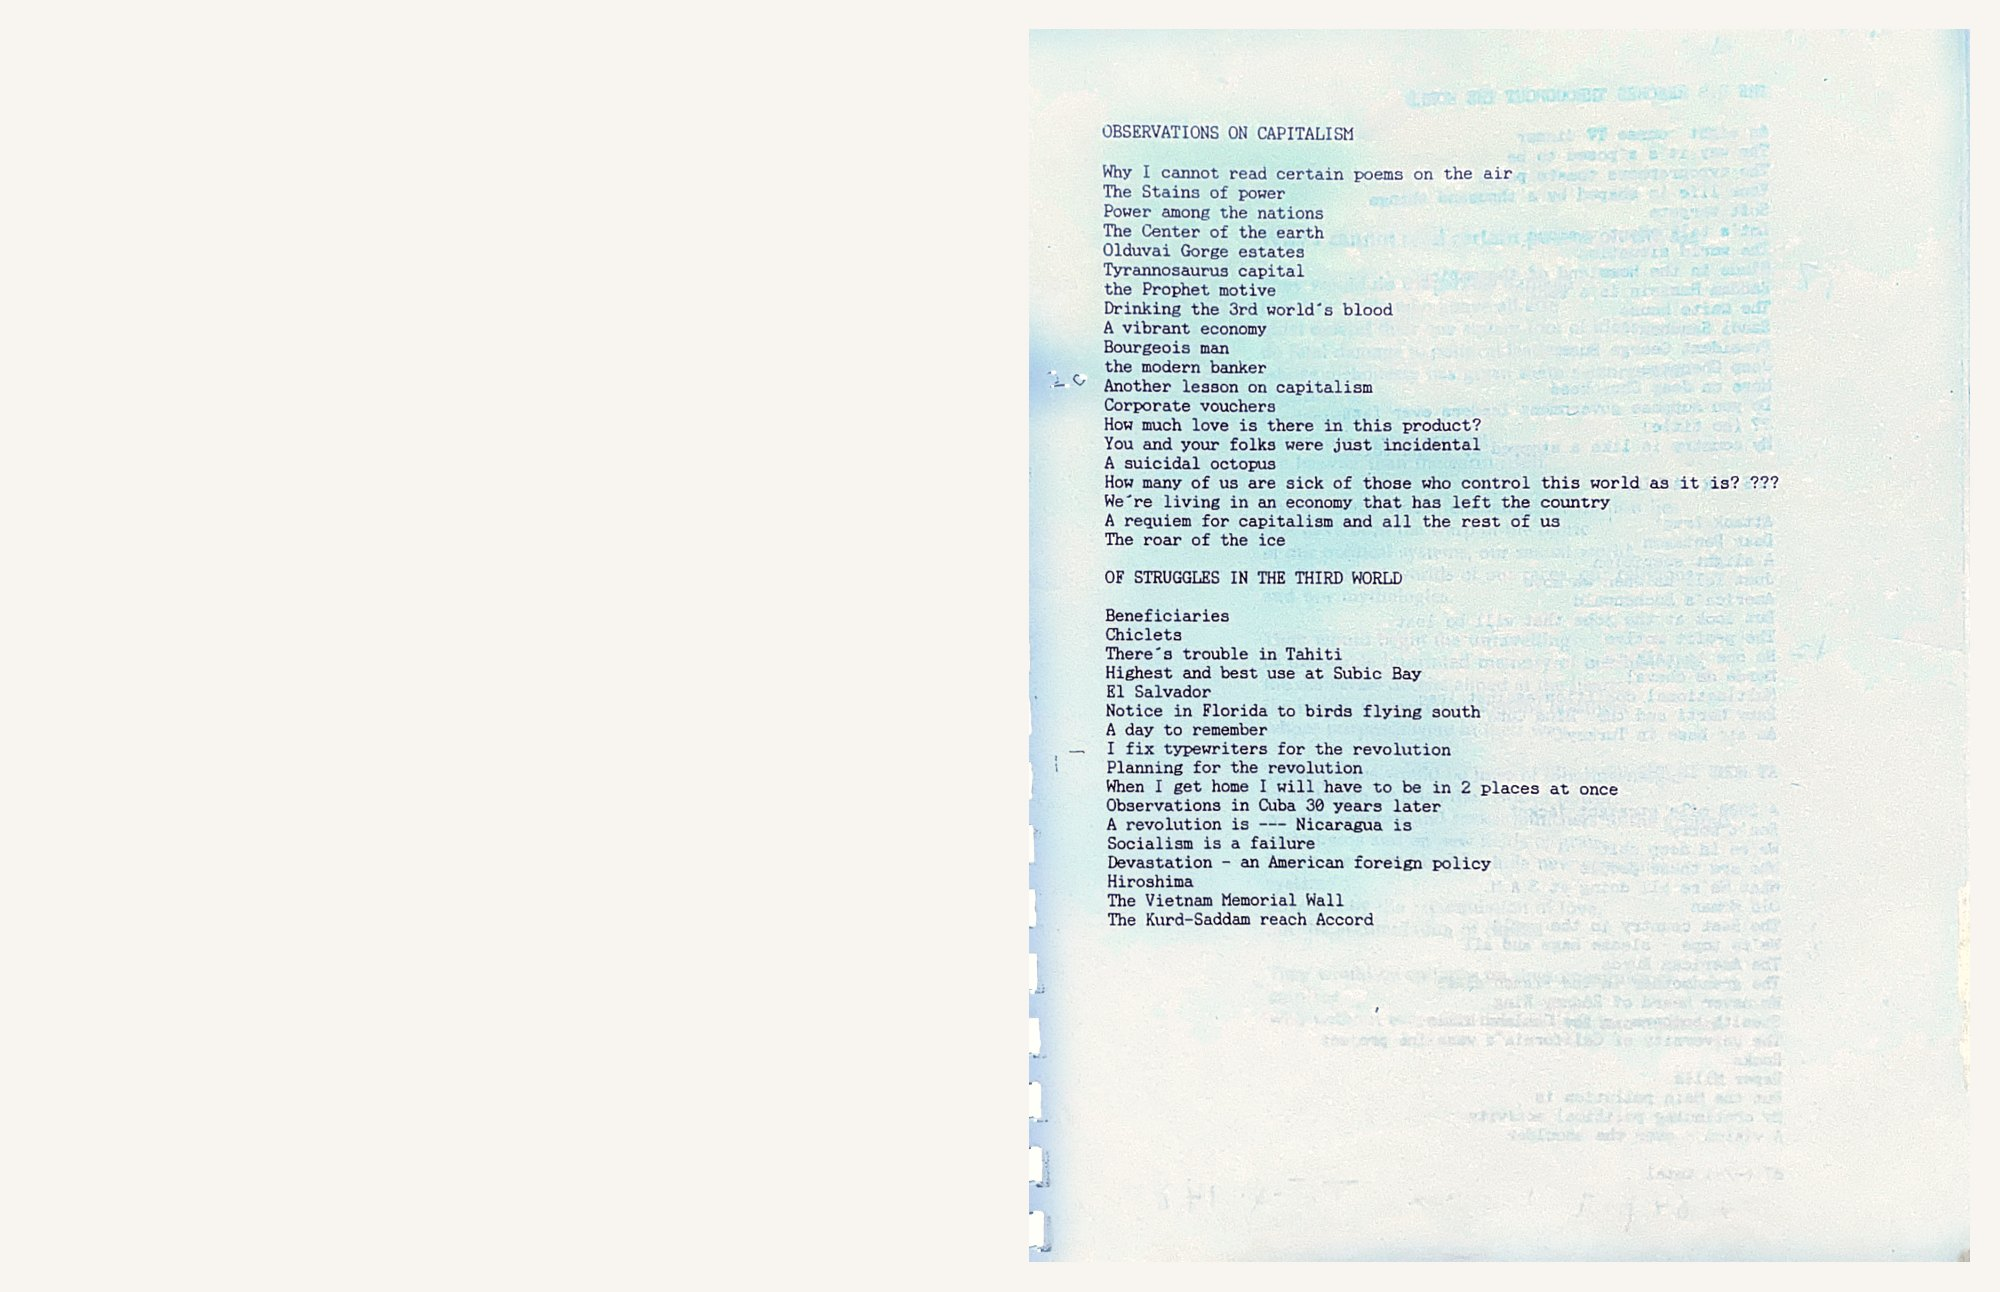
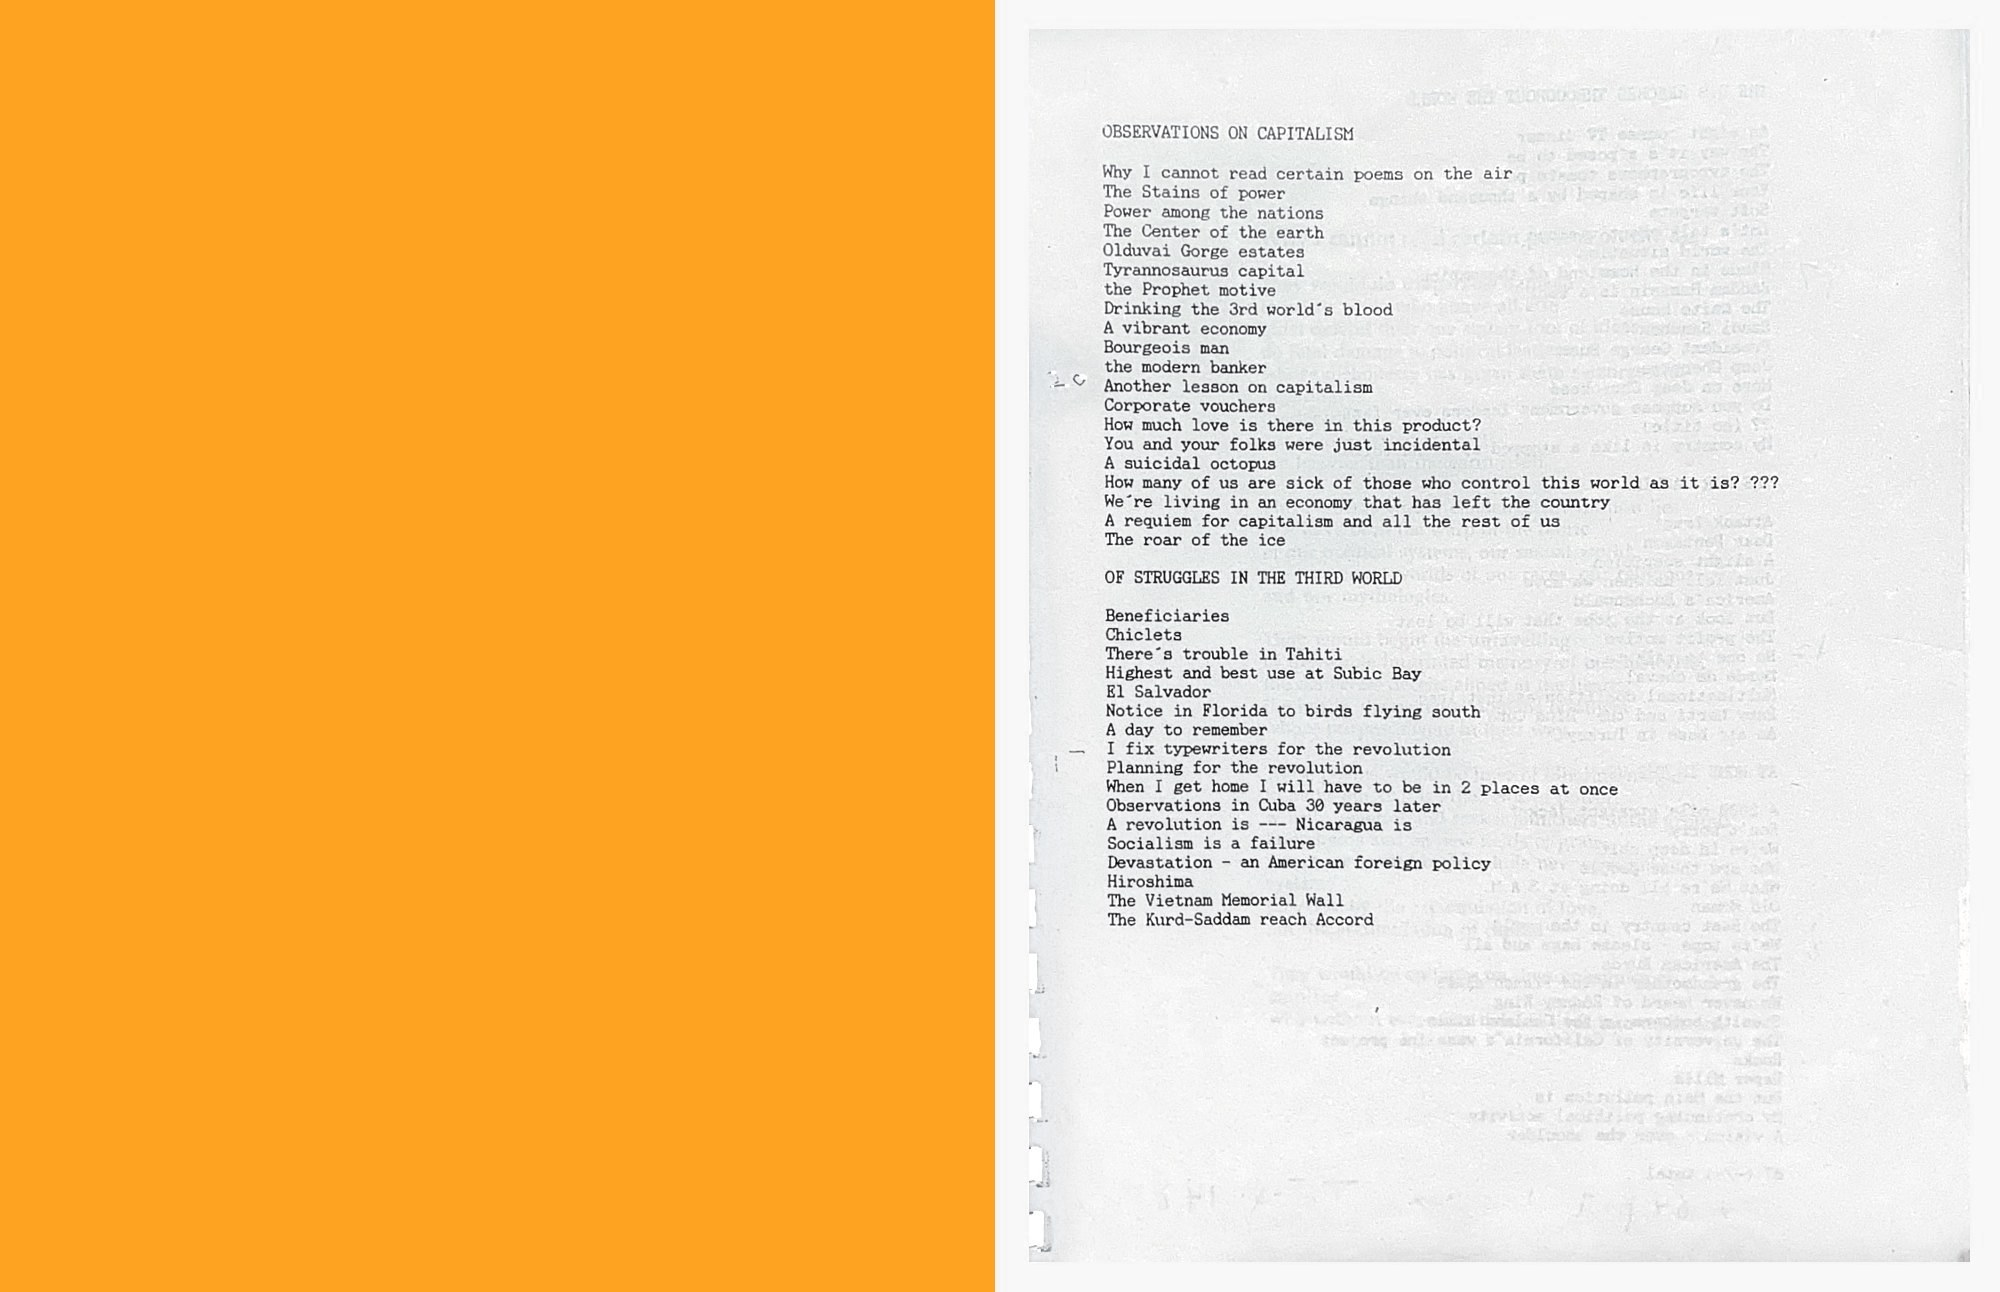
Suicidal Octopus: orange endpapers + fix seam colour; jump tidy
Each half now begins and ends with a blank orange endpaper (repaint the
padded blanks on s000 and s111 to the book's orange), and the cyan cast
on the batch-1 contents and final pages at the seam is neutralised so
the rest read white. Add two titled poems that were missing from the
jump menu (Patriotism, Modern success). Jump audit: all links verified
to land on their poems.

Claude-Session: https://claude.ai/code/session_01K2qkhUtNd8k2fdgNzPF8qG

diff --git a/chapbooks/the-suicidal-octopus/read.html b/chapbooks/the-suicidal-octopus/read.html
@@ -124,6 +124,7 @@ BookReader({
     ["Butterflies", 120],
     ["My daughter Lori", 121],
     ["The most famous bank branch in the United States", 122],
+    ["Patriotism", 124],
     ["The liquor companies", 125],
     ["Dead weight", 125],
     ["The world's leading police department", 126],
@@ -140,6 +141,7 @@ BookReader({
     ["Kurds-Saddam reach accord (also in Part 1)", 135],
     ["Illiteracy among college presidents", 135],
     ["Most urban suburbs", 136],
+    ["Modern success", 137],
     ["The primitive accumulation of capital", 140],
     ["Power and privilege", 141],
     ["Rate of return", 141],
